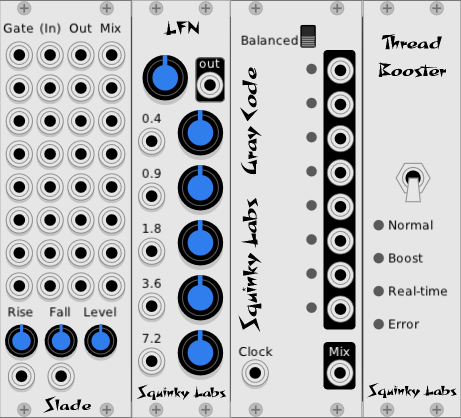
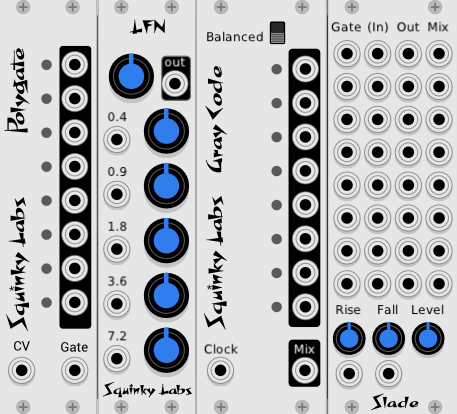
-

diff --git a/docs/booty-shifter.md b/docs/booty-shifter.md
@@ -4,6 +4,24 @@ Below are short descriptions of our modules with links to more detailed manuals.
 
 The [Changelog](../CHANGELOG.md) describes recent changes to our modules.
 
+# Seq++
+
+![Seq++ Image](./seq.png)
+
+[Seq++](./sq.md) is a polyphonic sequencer that provides "DAW-like" music editing in a VCV module. May be used for composing "traditional" music, for triggering patch changes from a timeline, and many other uses.
+
+# Mixers
+
+![Mixer Intro Image](./mixers.png)
+
+[Form](./form.md) is a modular mixer with a ton of features. Channels are added by placing ExFor modules to the right of it. It has two stereo send busses, and anti-pop filters on all CV inputs.
+
+[ExFor](./exfor.md) is the an expander for Form. Each instance of ExFor adds four more channels.
+
+[ExTwo](.extwo.md) is the newest expander for Form. Each instance adds two stereo channels.
+
+[Mixer-8](./mix8.md) is our clone of the AS 8-CH mixer, with more features and 1/10 the CPU usage.
+
 # Things that make sound
 
 ![Intro 1 image](./intro-1-110.png)
@@ -34,19 +52,11 @@ The [Changelog](../CHANGELOG.md) describes recent changes to our modules.
 
 [Formants](./formants.md) is a programmable bank of filters that can synthesize various vowel sounds and morph between them easily.
 
-# Mixers
-
-![Mixer Intro Image](./mixers.png)
-
-[Form](./form.md) is a modular mixer with a ton of features. Channels are added by placing ExFor modules to the right of it. It has two stereo send busses, and anti-pop filters on all CV inputs.
-
-[ExFor](./exfor.md) is the expander for Form. Each instance of ExFor adds four more channels.
-
-[Mixer-8](./mix8.md) is our clone of the AS 8-CH mixer, with more features and 1/10 the CPU usage.
-
 # Other things
 
 ![Intro 3 image](./intro-3-110.png)
+
+[Polygate](./polygate.md) is an eight channel get generator. It takes polyphonic CV and Gate as inputs, and outputs eight mono gate signals. Design for triggering drums from a polyphonic sequencer, it als has many less obvious uses.
 
 [Slade](./slew4.md) has eight identical channels of lag/anti-pop/envelope generator/VCA. Very low CPU, as always.
 
@@ -54,8 +64,10 @@ The [Changelog](../CHANGELOG.md) describes recent changes to our modules.
 
 [LFN](./lfn.md) is a random voltage generator made by running low frequency noise through a graphic equalizer. The equalizer gives a lot of easy control over the shape of the randomness.
 
-[Thread Booster](./booster.md) (for VCV 0.6 only). Reduces pops and clicks in VCV Rack by reprogramming VCV's audio engine.
-
 # More resources
 
 Here is a video by Dave Phillips that uses a lot of EV3 VCOs, and some other Squinky Labs modules: [A Machine Dream](https://www.youtube.com/watch?v=c2fzgobYjbk).
+
+Omri Cohen has this [Chebyshev tutorial](https://www.youtube.com/watch?v=cv4N_6qRAK8&t=549s)
+
+Artem Leonov has [7 REASONS to use a Tremolo in Modular Environment](https://www.youtube.com/watch?v=UYeEKPMYDoA)

diff --git a/docs/form.md b/docs/form.md
@@ -2,9 +2,9 @@
 
 ![Form Panel](./form.png)
 
-Form is a feature packed four channel mixer that can be expanded to any number of channels by stacking it with ExFor expander modules. See the [ExFor manual](./exfor.md) for more on how to do this.
+Form is a feature packed four channel mixer that can be expanded to any number of channels by stacking it with Ex series expander modules. See the [ExFor manual](./exfor.md) or [ExTwo manual](./extwo.md) for more on how to do this.
 
-Form is an enhanced version of our Mixer-8, which was based on the AS 8-CH mixer, with some added features. Form and ExFor have diverged enough from the AS mixer that we can't call them clones, although we have retained the equal power pan formulae from the AS mixer.
+Form is an enhanced version of our Mixer-8, which was based on the AS 8-CH mixer, with some added features. Form and the expanders have diverged enough from the AS mixer that we can't call them clones, although we have retained the equal power pan formulae from the AS mixer.
 
 To the Mixer-8 features, Form adds many more:
 
@@ -14,8 +14,6 @@ To the Mixer-8 features, Form adds many more:
 * Volume controls now have audio taper, rather than linear taper.
 * Mute CV can be momentary or toggle.
 * Master and bus returns now have up to +6db gain.
-
-Most of the non-obvious aspects of Form are mentioned at the start of this documentation. The reference at the end may have some tidbits, but make sure to read the start at least.
 
 This manual will use the word *fader*. Fader is an audio term that often refers to the linear travel volume controls found on many mixers. But fader can also apply to regular round volume controls. In the case of Form we use round controls to save panel space without having to make the controls too small to use, but we call them faders.
 

diff --git a/docs/exfor.md b/docs/exfor.md
@@ -2,9 +2,11 @@
 
 ![ExFor Panel](./exfor.png)
 
-ExFor is used to add four more channels to the Form "master mixer". ExFor is only functional when it is placed directly to the left of a Form mixer, or another ExFor that is paired with a Form. As many ExFor expanders may be added to the left as you like. So, for example, you could make a 32 channel mixer with one Form and seven ExFors.
+ExFour is used to add four channels to the Form "master mixer". ExFour is only functional when it is part of a chain of a Form mixer and some Ex expanders.
 
-The ExFor and the Form recognize each other, and automatically connect together the stereo master bus, the two stereo aux busses, and the solo bus.  This allows all the linked mixers to act as one without any extra cables.
+The master Form mixer is always on the right. Then any number of ExFor and ExTwo expanders may be placed to the left.
+
+The ExFor and the other mixers recognize each other, and automatically connect together the stereo master bus, the two stereo aux busses, and the solo bus.  This allows all the linked mixers to act as one without any extra cables.
 
 The ExFor is of course just four channel strips from the Form mixer. Refer to the [Form instruction manual](./form.md) for detailed instructions.
 

diff --git a/docs/mix8.md b/docs/mix8.md
@@ -2,7 +2,7 @@
 
 8 channel mixer - improved 8-CH Mixer
 
-**Note that we now have the Form expandable mixer. It has more features that Mixer-8, and can be expanded to any number of inputs, in multiples of four. Details [here](./form.md).**
+**Note that we now have the Form expandable mixer. It has more features that Mixer-8, and can be expanded to any number of inputs, both mono and stereo. Details [here](./form.md).**
 
 ![Mixer-8 Panel](./mixer-8.png)
 
